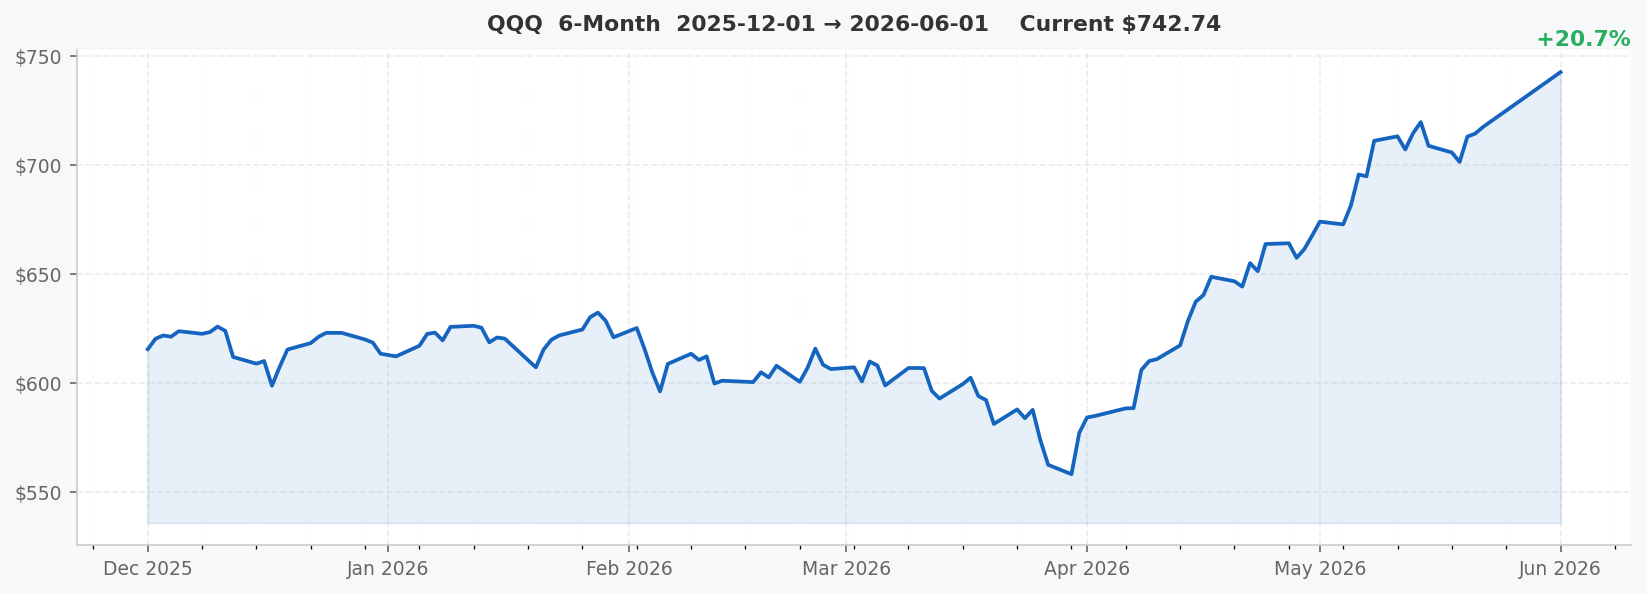
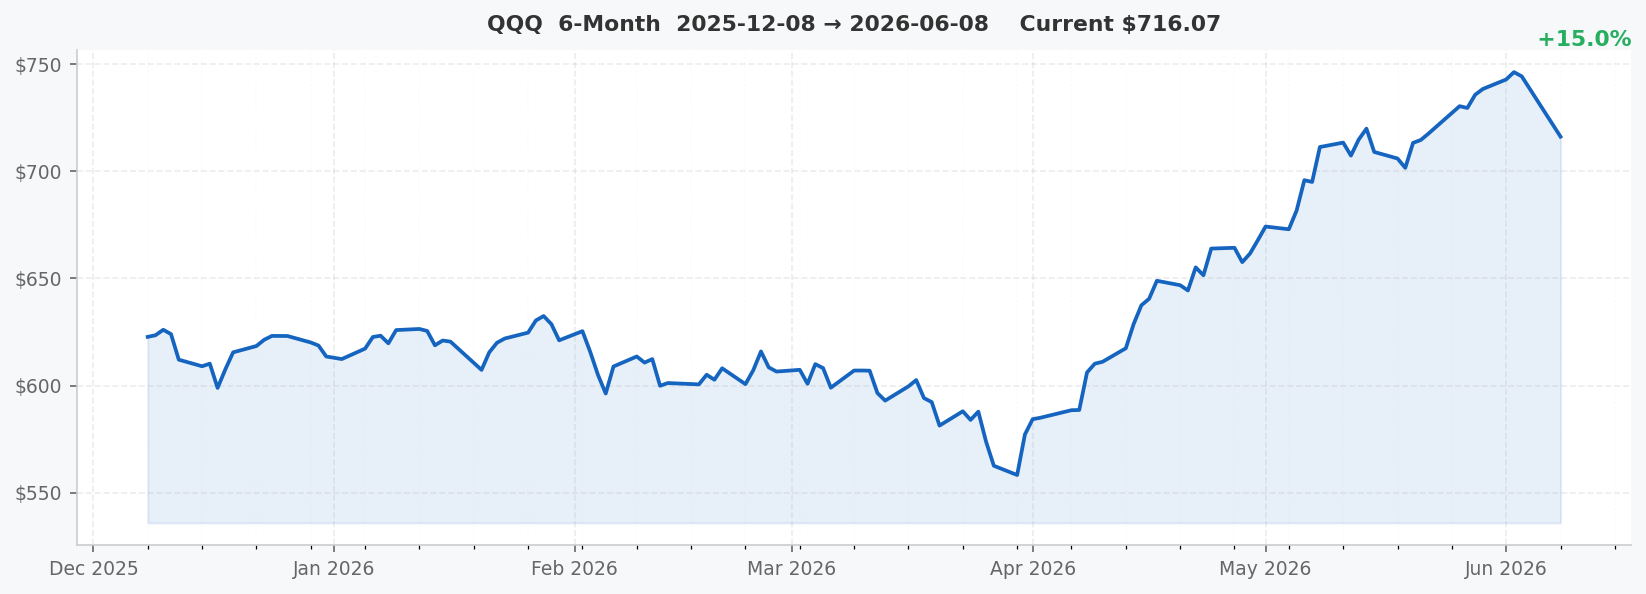
fix: resolve Babel JSX runtime conflict in card template
@user/standalone v7.16+ defaults to automatic JSX runtime which
requires react/jsx-runtime imports unavailable in browser scripts.
Switch to explicit Babel.transform() with runtime:'classic' to fix
local rendering (also increases screenshot timeout to 60s).

diff --git a/templates/report_card.html b/templates/report_card.html
@@ -18,7 +18,7 @@
 
 <script>const REPORT_DATA = "__REPORT_DATA__";</script>
 
-<script type="text/babel">
+<script id="jsx-source" type="text/jsx-src">
 const CHART_B64 = REPORT_DATA.chartB64 || '';
 
 // ── Design tokens ──────────────────────────────────────────────────────────
@@ -337,6 +337,18 @@ function App() {
 }
 
 ReactDOM.createRoot(document.getElementById('card-root')).render(<App />);
+</script>
+<script>
+  (function() {
+    var src = document.getElementById('jsx-source').textContent;
+    var result = Babel.transform(src, {
+      presets: [['react', { runtime: 'classic' }]],
+      filename: 'card.jsx'
+    });
+    var script = document.createElement('script');
+    script.textContent = result.code;
+    document.body.appendChild(script);
+  })();
 </script>
 </body>
 </html>

diff --git a/src/card_renderer.py b/src/card_renderer.py
@@ -158,17 +158,23 @@ def render_card(report_data: dict, output_path: Optional[str] = None) -> str:
     TMP_HTML.parent.mkdir(parents=True, exist_ok=True)
     TMP_HTML.write_text(html, encoding="utf-8")
 
+    js_errors = []
     try:
         with sync_playwright() as p:
             browser = p.chromium.launch(args=["--no-sandbox", "--disable-setuid-sandbox"])
             page = browser.new_page(viewport={"width": 700, "height": 2400})
-            page.goto(f"file://{TMP_HTML.resolve()}")
-            page.wait_for_load_state("networkidle")
-            page.wait_for_timeout(1200)   # 等待字体 + Babel JSX 编译完成
+            page.on("pageerror", lambda e: js_errors.append(str(e)))
+            page.goto(f"file://{TMP_HTML.resolve()}", timeout=60000)
+            page.wait_for_load_state("networkidle", timeout=60000)
+            page.wait_for_timeout(2000)   # 等待字体 + Babel JSX 编译完成
+            if js_errors:
+                log.warning(f"JS 错误：{js_errors}")
             card = page.locator("#card-root > div").first
-            card.screenshot(path=str(out))
+            card.screenshot(path=str(out), timeout=60000)
             browser.close()
     finally:
+        if js_errors:
+            log.warning(f"渲染期间发生 {len(js_errors)} 个 JS 错误")
         TMP_HTML.unlink(missing_ok=True)
 
     log.info(f"日报图片已渲染：{out}")